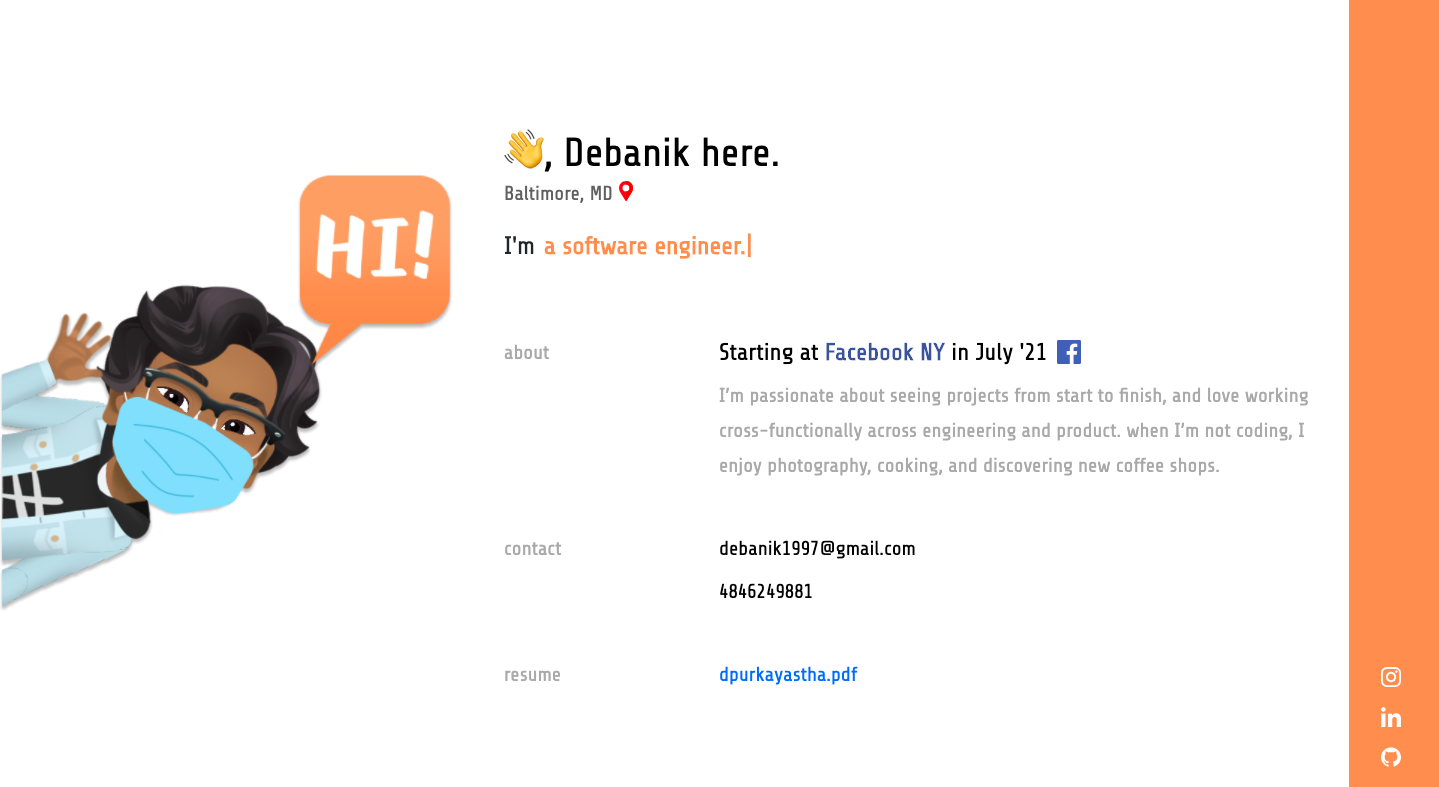
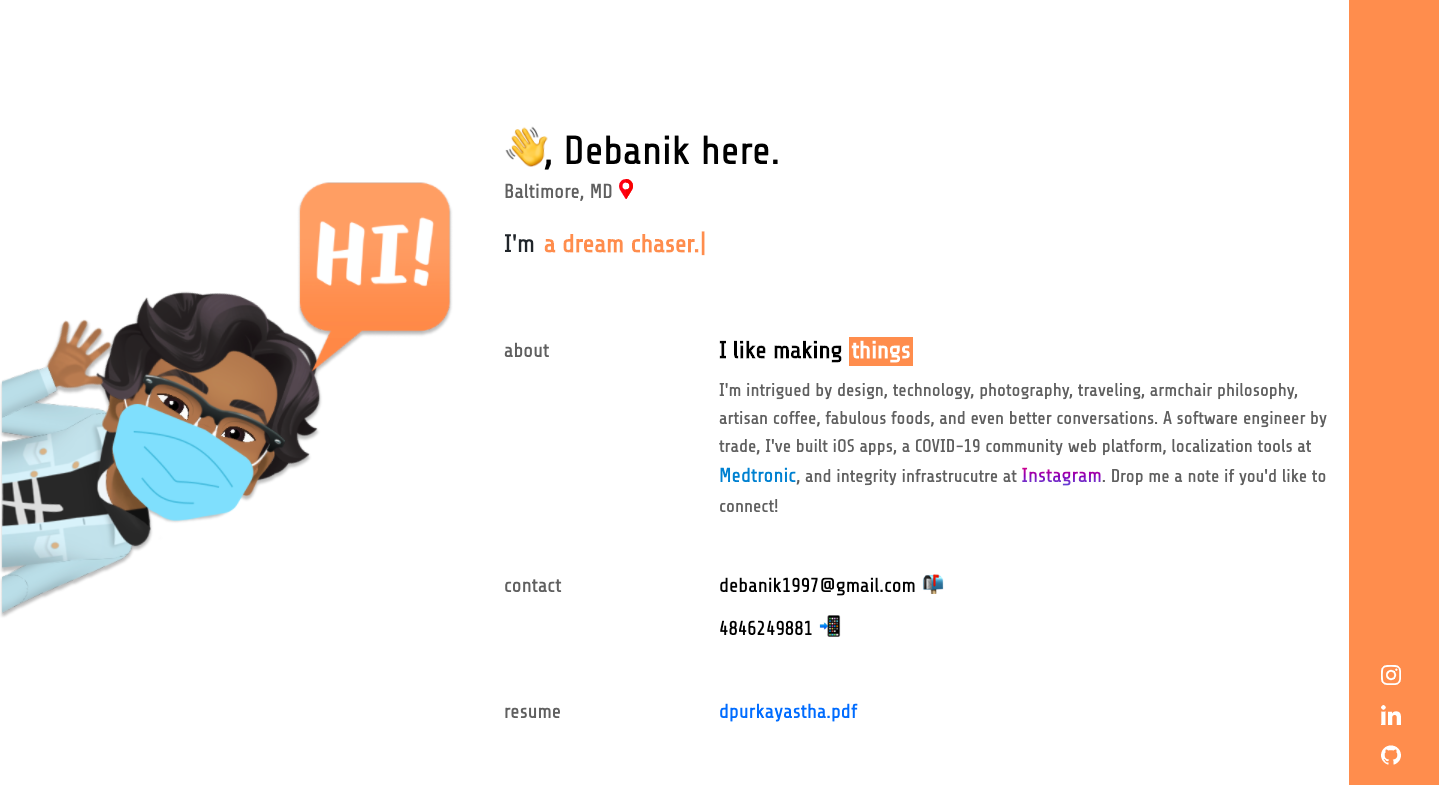
changing about me

diff --git a/src/components/AboutMe.js b/src/components/AboutMe.js
@@ -62,9 +62,13 @@ const AboutMe = () => {
             I'm intrigued by design, technology, photography, traveling,
             armchair philosophy, artisan coffee, fabulous foods, and even better
             conversations. A software engineer by trade, I've built iOS apps, a
-            COVID-19 community web platform, localization tools at Medtronic,
-            and integrity infrastrucutre at Instagram. Drop me a note if you'd
-            like to connect!
+            COVID-19 community web platform, localization tools at{" "}
+            <span style={{ color: "#0085CA", fontSize: 20 }}><strong>Medtronic</strong></span>, and integrity
+            infrastrucutre at{" "}
+            <span className="instagram">
+              <strong>Instagram</strong>
+            </span>
+            . Drop me a note if you'd like to connect!
           </h3>
         </Col>
       </Row>
@@ -76,9 +80,9 @@ const AboutMe = () => {
         </Col>
         <Col>
           <h3 className="secondary" style={{ marginTop: 40 }}>
-            debanik1997@gmail.com
+            debanik1997@gmail.com 📬
           </h3>
-          <h3 className="secondary">4846249881</h3>
+          <h3 className="secondary">4846249881 📲</h3>
         </Col>
       </Row>
       <Row>

diff --git a/src/styles/index.css b/src/styles/index.css
@@ -224,3 +224,10 @@ html {
     margin-top: 60px;
   }
 }
+
+.instagram {
+  background: -webkit-linear-gradient(#DD2A7B, #8134AF, #515BD4);
+  font-size: 20px;
+  -webkit-background-clip: text;
+  -webkit-text-fill-color: transparent;
+}
